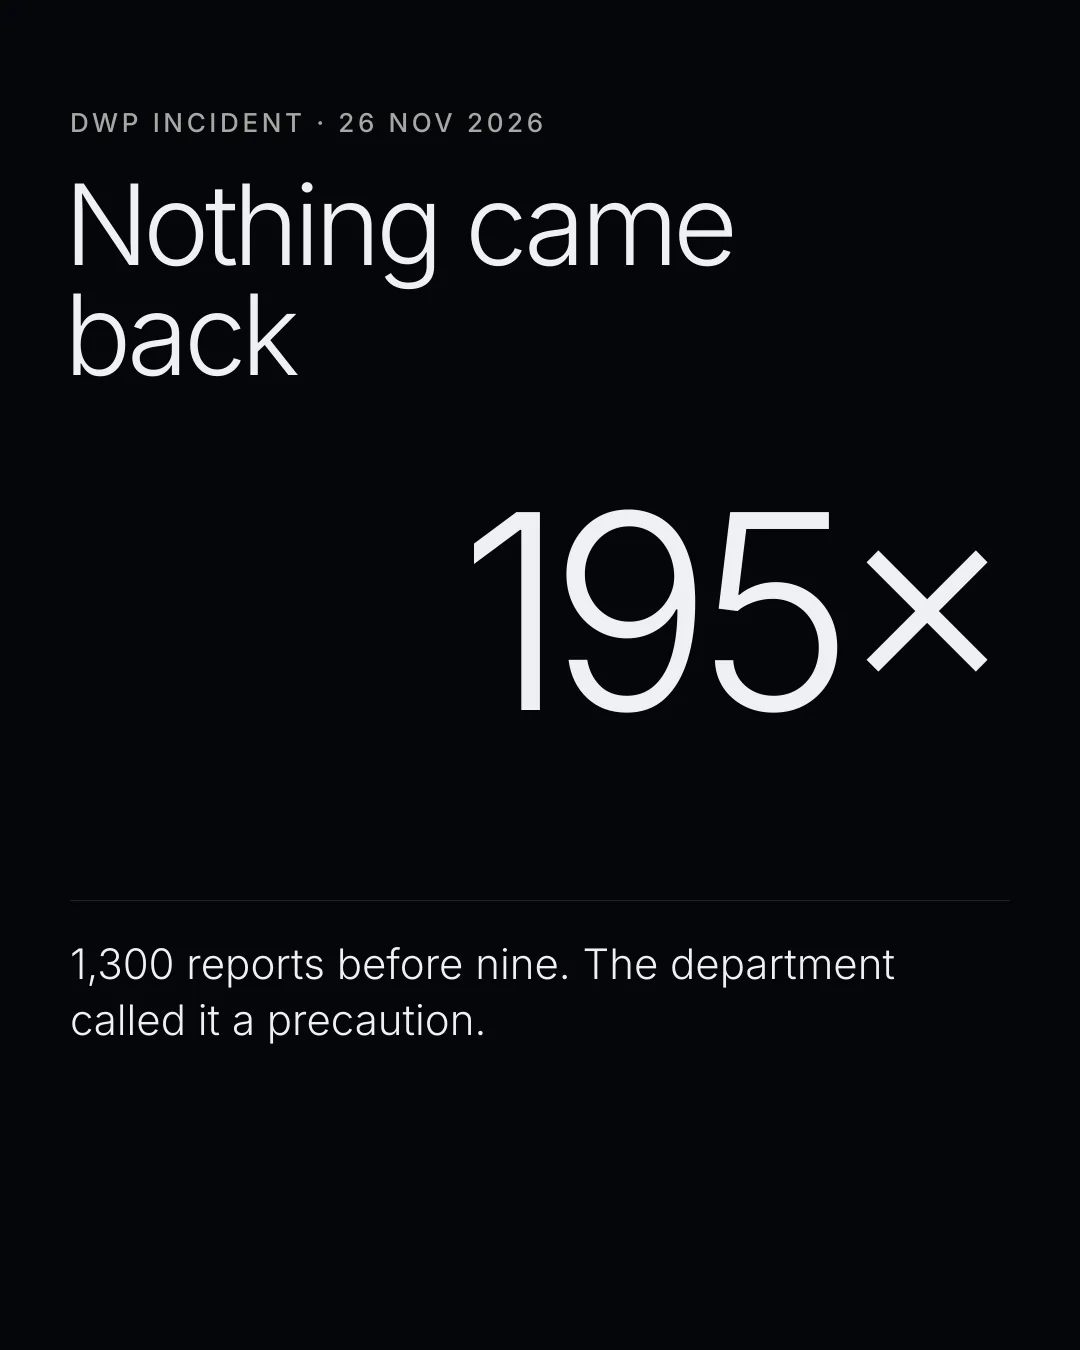
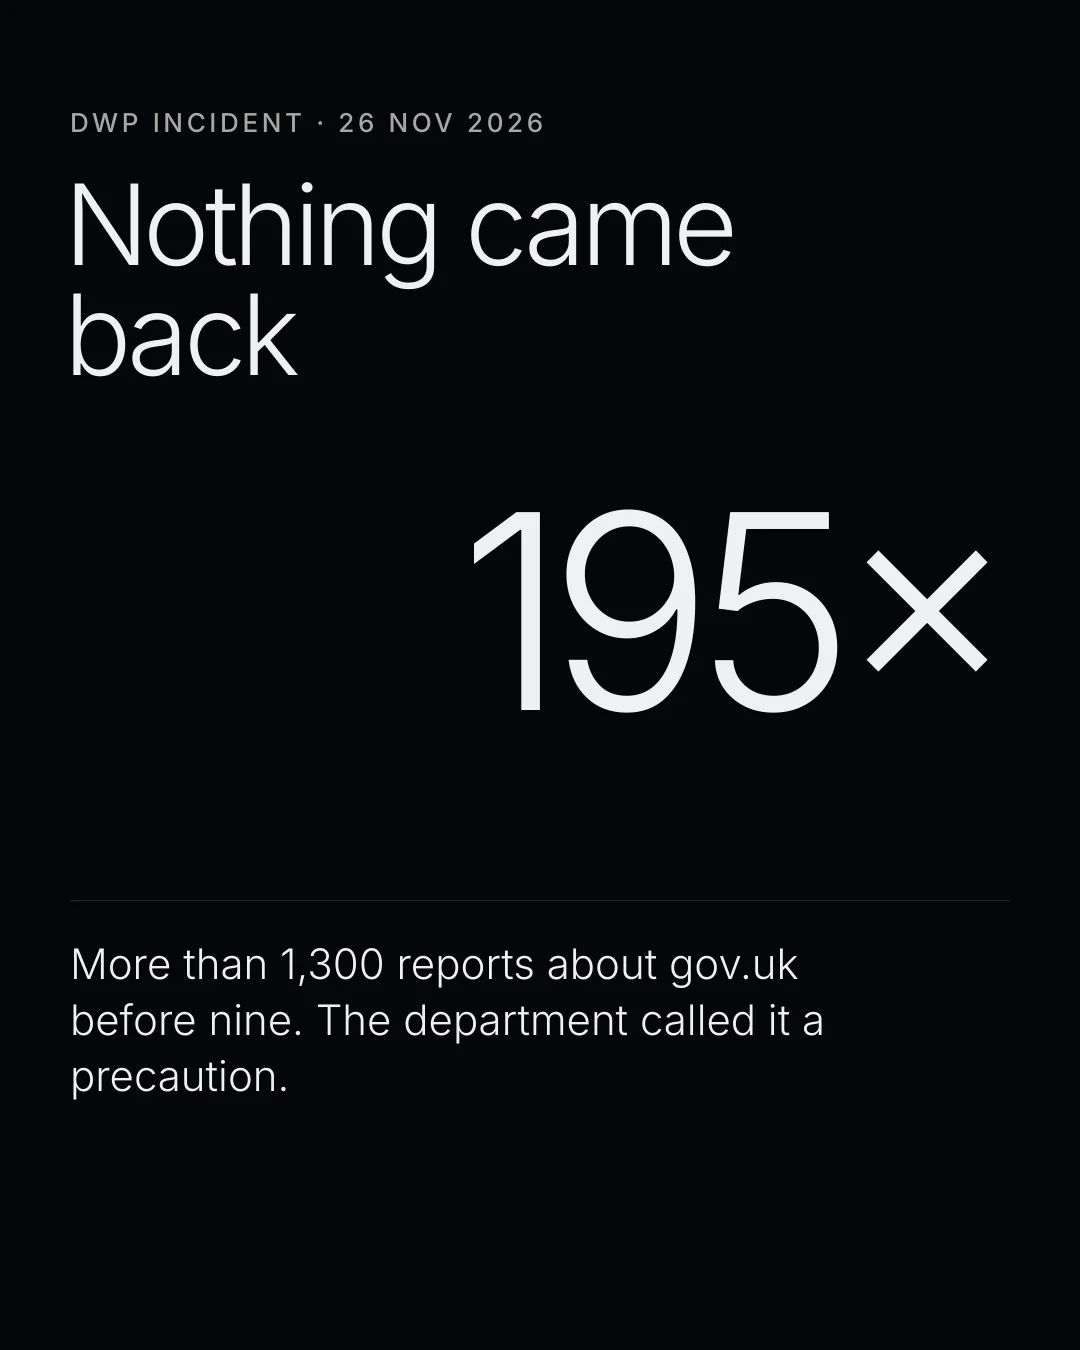
notes: DWP copy corrected against audit

Changed region(s): [[0.0611, 0.6844, 0.7639, 0.8089], [0.7944, 0.6844, 0.825, 0.7156], [0.7639, 0.7156, 0.7944, 0.7467]]

diff --git a/notes/dwp-incident-review/index.html b/notes/dwp-incident-review/index.html
@@ -58,16 +58,16 @@
 <p>About a thousand people did the same in the next ninety minutes. At nine the department took services offline and called it a precaution. That word describes what you do, not what happened.</p>
 </article></div>
 <div class="wrap"><figure class="review-shot">
-  <img src="/assets/notes-photo-2026/dwp-review/01.webp" width="1080" height="1350" loading="lazy" decoding="async" alt="Slide 1 of 12: 1,300 reports before nine. The department called it a precaution.">
-  <figcaption><span>01 / 12</span> 1,300 reports before nine. The department called it a precaution.</figcaption>
+  <img src="/assets/notes-photo-2026/dwp-review/01.webp" width="1080" height="1350" loading="lazy" decoding="async" alt="Slide 1 of 12: More than 1,300 reports about gov.uk before nine. The department called it a precaution.">
+  <figcaption><span>01 / 12</span> More than 1,300 reports about gov.uk before nine. The department called it a precaution.</figcaption>
 </figure>
 <figure class="review-shot">
   <img src="/assets/notes-photo-2026/dwp-review/02.webp" width="1080" height="1350" loading="lazy" decoding="async" alt="Slide 2 of 12: 19:20. You assume your signal, then your password, then you ring.">
   <figcaption><span>02 / 12</span> 19:20. You assume your signal, then your password, then you ring.</figcaption>
 </figure>
 <figure class="review-shot">
-  <img src="/assets/notes-photo-2026/dwp-review/03.webp" width="1080" height="1350" loading="lazy" decoding="async" alt="Slide 3 of 12: Normal is one report every fifteen minutes. That evening, 1,300.">
-  <figcaption><span>03 / 12</span> Normal is one report every fifteen minutes. That evening, 1,300.</figcaption>
+  <img src="/assets/notes-photo-2026/dwp-review/03.webp" width="1080" height="1350" loading="lazy" decoding="async" alt="Slide 3 of 12: Downdetector normal rate: one report every fifteen minutes. That evening: more than 1,300.">
+  <figcaption><span>03 / 12</span> Downdetector normal rate: one report every fifteen minutes. That evening: more than 1,300.</figcaption>
 </figure>
 <figure class="review-shot">
   <img src="/assets/notes-photo-2026/dwp-review/04.webp" width="1080" height="1350" loading="lazy" decoding="async" alt="Slide 4 of 12: 08:11 precaution. 12:16 live incident. 13:48 serious cyber incident.">
@@ -78,8 +78,8 @@
   <figcaption><span>05 / 12</span> 8.4 million Universal Credit claimants. 96,925 staff. About 87 people each.</figcaption>
 </figure>
 <figure class="review-shot">
-  <img src="/assets/notes-photo-2026/dwp-review/06.webp" width="1080" height="1350" loading="lazy" decoding="async" alt="Slide 6 of 12: Secure connection in under a second. Then zero bytes for twenty seconds.">
-  <figcaption><span>06 / 12</span> Secure connection in under a second. Then zero bytes for twenty seconds.</figcaption>
+  <img src="/assets/notes-photo-2026/dwp-review/06.webp" width="1080" height="1350" loading="lazy" decoding="async" alt="Slide 6 of 12: The sign-in address resolved. Twenty-five seconds, no response, zero bytes.">
+  <figcaption><span>06 / 12</span> The sign-in address resolved. Twenty-five seconds, no response, zero bytes.</figcaption>
 </figure>
 <figure class="review-shot">
   <img src="/assets/notes-photo-2026/dwp-review/07.webp" width="1080" height="1350" loading="lazy" decoding="async" alt="Slide 7 of 12: The front door stayed open. The system behind it stopped.">
@@ -94,8 +94,8 @@
   <figcaption><span>09 / 12</span> The money kept moving. The site did not. That is not a contradiction.</figcaption>
 </figure>
 <figure class="review-shot">
-  <img src="/assets/notes-photo-2026/dwp-review/10.webp" width="1080" height="1350" loading="lazy" decoding="async" alt="Slide 10 of 12: Capita £14m. WannaCry £92m. Co-op £206m. M&S about £300m.">
-  <figcaption><span>10 / 12</span> Capita £14m. WannaCry £92m. Co-op £206m. M&S about £300m.</figcaption>
+  <img src="/assets/notes-photo-2026/dwp-review/10.webp" width="1080" height="1350" loading="lazy" decoding="async" alt="Slide 10 of 12: Capita: £14m fine. Co-op: £206m lost sales. WannaCry: £92m to the NHS. M&S: about £300m profit.">
+  <figcaption><span>10 / 12</span> Capita: £14m fine. Co-op: £206m lost sales. WannaCry: £92m to the NHS. M&S: about £300m profit.</figcaption>
 </figure>
 <figure class="review-shot">
   <img src="/assets/notes-photo-2026/dwp-review/11.webp" width="1080" height="1350" loading="lazy" decoding="async" alt="Slide 11 of 12: No list means no named approver, no record of what it touched, no expiry date.">
